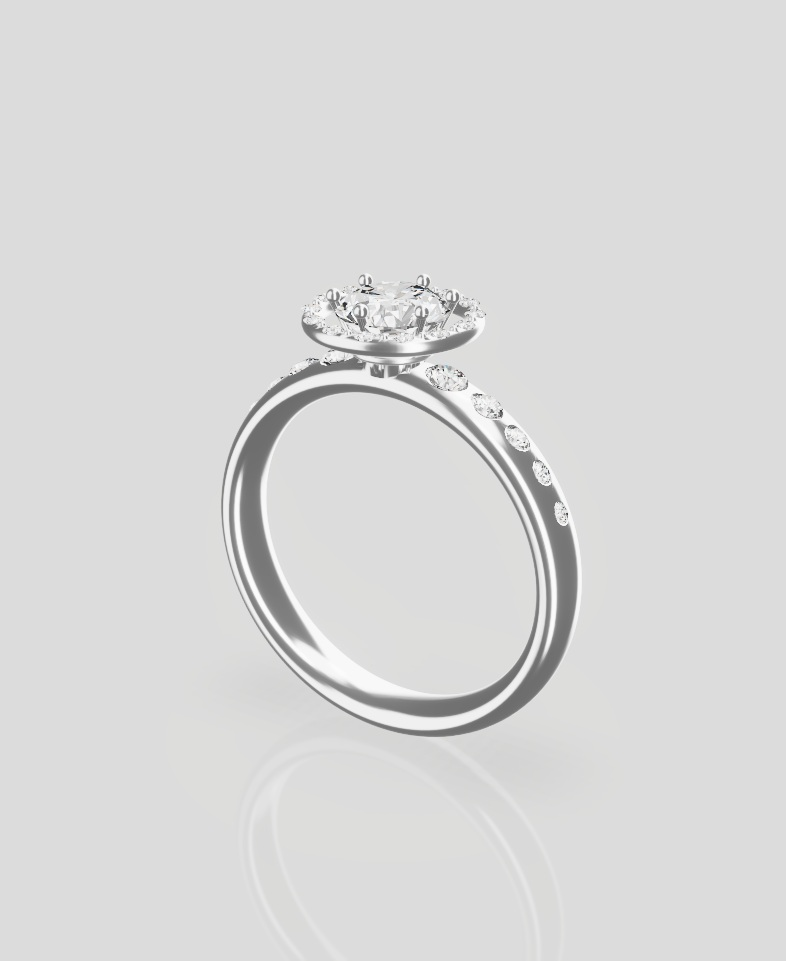
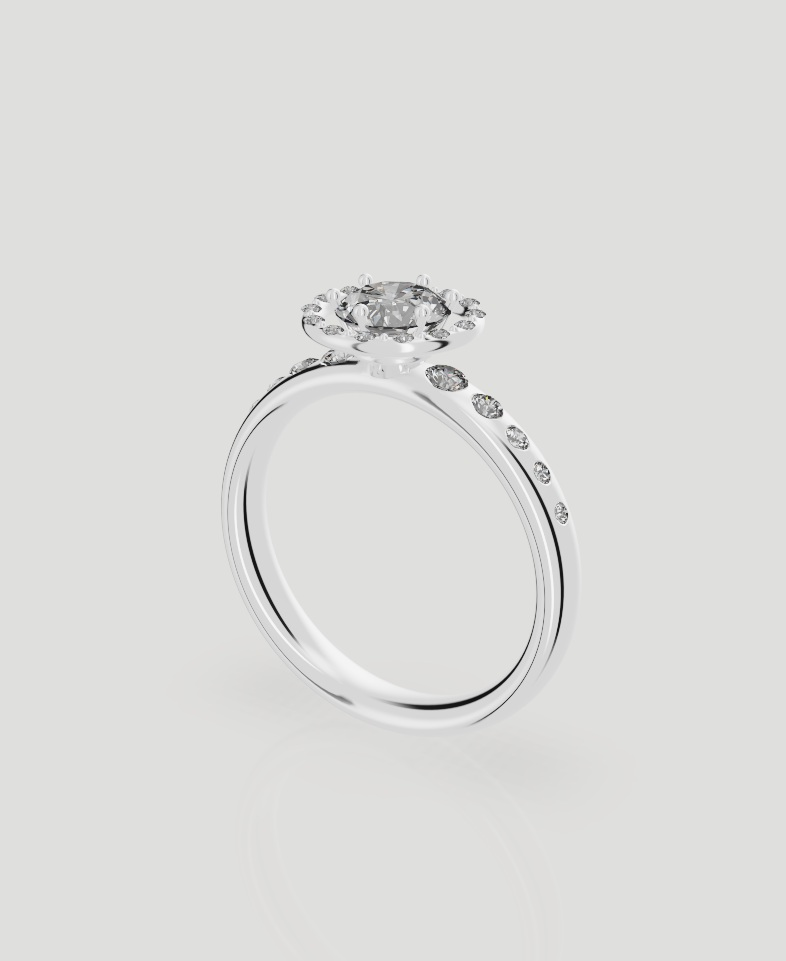
Improve jewelry rendering and add CI

Changed region(s): [[0.2748, 0.281, 0.7328, 0.7804]]

diff --git a/src/viewer/studioLighting.ts b/src/viewer/studioLighting.ts
@@ -1,23 +1,25 @@
 import {DataTexture,DataUtils,EquirectangularReflectionMapping,HalfFloatType,
   LinearFilter,LinearMipmapLinearFilter,LinearSRGBColorSpace,RGBAFormat} from 'three';
 
-type Softbox={azimuth:number;elevation:number;width:number;height:number;power:number};
+type Softbox={azimuth:number;elevation:number;width:number;height:number;power:number;feather?:number};
 const metalBoxes:Softbox[]=[
-  {azimuth:-1.15,elevation:0.3,width:0.48,height:0.95,power:3.4},
-  {azimuth:1.1,elevation:0.2,width:0.18,height:1.05,power:5.4},
-  {azimuth:0,elevation:1.2,width:1.1,height:0.26,power:2.8},
-  {azimuth:2.8,elevation:0.2,width:0.62,height:0.8,power:1.8},
+  {azimuth:-1.15,elevation:0.35,width:0.65,height:1.05,power:1.8,feather:0.9},
+  {azimuth:1.25,elevation:0.25,width:0.12,height:1.15,power:2.4,feather:0.45},
+  {azimuth:0,elevation:1.2,width:1.2,height:0.35,power:0.85,feather:0.85},
+  {azimuth:2.8,elevation:0.2,width:0.6,height:0.9,power:0.7,feather:0.9},
+  // Negative cards remove tent fill, giving polished metal narrow dark reflections.
+  {azimuth:0.42,elevation:0.05,width:0.16,height:1.3,power:-0.8,feather:0.45},
+  {azimuth:-2.1,elevation:0.1,width:0.24,height:1.25,power:-0.8,feather:0.6},
+  {azimuth:2.4,elevation:-0.15,width:0.1,height:1.2,power:-0.8,feather:0.45},
 ];
 const gemBoxes:Softbox[]=[
-  // Broad ceiling/floor returns keep the face-up stone luminous, while gaps between
-  // the narrower side cards still resolve as dark facets rather than a blue tint.
-  {azimuth:0,elevation:1.25,width:Math.PI,height:0.48,power:1.1},
-  {azimuth:0,elevation:-1.15,width:Math.PI,height:0.52,power:0.9},
-  {azimuth:-0.55,elevation:0.8,width:0.64,height:0.5,power:2.8},
-  {azimuth:1.25,elevation:0.25,width:0.25,height:0.9,power:3.1},
-  {azimuth:-2.15,elevation:0.25,width:0.36,height:0.75,power:2.5},
-  {azimuth:2.7,elevation:-0.25,width:0.45,height:0.5,power:1.7},
-  {azimuth:0.25,elevation:-0.7,width:0.3,height:0.22,power:1.6},
+  {azimuth:0,elevation:1.25,width:Math.PI,height:0.5,power:0.55,feather:0.5},
+  {azimuth:0,elevation:-1.15,width:Math.PI,height:0.55,power:0.28,feather:0.65},
+  {azimuth:-0.55,elevation:0.8,width:0.4,height:0.42,power:1.8,feather:0.55},
+  {azimuth:1.25,elevation:0.25,width:0.12,height:0.85,power:2.6,feather:0.4},
+  {azimuth:-2.15,elevation:0.25,width:0.28,height:0.7,power:1.6,feather:0.6},
+  {azimuth:2.7,elevation:-0.25,width:0.4,height:0.45,power:1.1,feather:0.6},
+  {azimuth:0.25,elevation:-0.7,width:0.17,height:0.16,power:2.2,feather:0.4},
 ];
 const smooth=(inner:number,outer:number,value:number)=>{
   const t=Math.max(0,Math.min(1,(value-inner)/(outer-inner)));
@@ -31,11 +33,12 @@ function radianceTexture(width:number,height:number,boxes:Softbox[],base:number)
     let value=base+0.015*Math.max(0,Math.sin(elevation));
     for(const box of boxes){
       const delta=Math.abs(Math.atan2(Math.sin(azimuth-box.azimuth),Math.cos(azimuth-box.azimuth)));
-      const horizontal=1-smooth(box.width*0.85,box.width,delta);
-      const vertical=1-smooth(box.height*0.85,box.height,Math.abs(elevation-box.elevation));
+      const edge=1-(box.feather??0.15);
+      const horizontal=1-smooth(box.width*edge,box.width,delta);
+      const vertical=1-smooth(box.height*edge,box.height,Math.abs(elevation-box.elevation));
       value+=box.power*horizontal*vertical;
     }
-    const i=(y*width+x)*4,encoded=DataUtils.toHalfFloat(value);
+    const i=(y*width+x)*4,encoded=DataUtils.toHalfFloat(Math.max(0.005,value));
     data[i]=data[i+1]=data[i+2]=encoded;data[i+3]=DataUtils.toHalfFloat(1);
   }
   const texture=new DataTexture(data,width,height,RGBAFormat,HalfFloatType);
@@ -50,8 +53,8 @@ function radianceTexture(width:number,height:number,boxes:Softbox[],base:number)
 export function createStudioLighting(width=512,height=256){
   if(!Number.isInteger(width)||!Number.isInteger(height)||width<16||height<8||width>1024||height>512)
     throw new RangeError('Studio dimensions must be integer texel sizes within 16×8–1024×512');
-  const metal=radianceTexture(width,height,metalBoxes,0.15);
-  const gem=radianceTexture(width,height,gemBoxes,0.13);
+  const metal=radianceTexture(width,height,metalBoxes,0.82);
+  const gem=radianceTexture(width,height,gemBoxes,0.2);
   metal.name='Original neutral metal softboxes';gem.name='Original neutral gemstone softboxes';
   let disposed=false;
   return {metal,gem,dispose(){if(!disposed){disposed=true;metal.dispose();gem.dispose();}}};

diff --git a/src/viewer/studioPresets.ts b/src/viewer/studioPresets.ts
@@ -3,7 +3,7 @@ export type StudioPreset={id:StudioPresetId;name:string;description:string;backg
   exposure:number;metalIntensity:number;gemIntensity:number;roughness:number;floorReflection:number;occlusion:number;dispersion:number};
 export const STUDIO_PRESETS:Record<StudioPresetId,StudioPreset>={
   catalog:{id:'catalog',name:'柔光商品棚',description:'柔和白底，清楚呈现戒托与切面。',background:'#f4f3ef',rotation:0.55,
-    exposure:1,metalIntensity:1.05,gemIntensity:1.1,roughness:0.16,floorReflection:0.09,occlusion:0.65,dispersion:0.004},
+    exposure:1,metalIntensity:1,gemIntensity:0.95,roughness:0.065,floorReflection:0.06,occlusion:0.65,dispersion:0.003},
   contrast:{id:'contrast',name:'切面特写',description:'更明确的明暗对比与细微火彩。',background:'#e6e5e2',rotation:-0.45,
-    exposure:0.95,metalIntensity:0.95,gemIntensity:1.05,roughness:0.115,floorReflection:0.22,occlusion:0.72,dispersion:0.004},
+    exposure:0.95,metalIntensity:0.9,gemIntensity:0.9,roughness:0.055,floorReflection:0.14,occlusion:0.72,dispersion:0.003},
 };

diff --git a/src/viewer/planarFloor.test.ts b/src/viewer/planarFloor.test.ts
@@ -1,6 +1,14 @@
-import {ShaderMaterial} from 'three';
+import {Color,ShaderMaterial} from 'three';
 import {expect,it} from 'vitest';
 import {createPlanarFloor} from './planarFloor';
+
+it('uses the selected studio floor color and reflection strength',()=>{
+  const floor=createPlanarFloor(256,-1.295,'#f4f3ef',0.06);
+  const material=floor.reflector.material as ShaderMaterial;
+  expect(material.uniforms.color.value.equals(new Color('#f4f3ef'))).toBe(true);
+  expect(material.uniforms.strength.value).toBe(0.06);
+  floor.dispose();
+});
 
 it('owns the planar reflection target and surface without leaking on quality changes',()=>{
   const floor=createPlanarFloor(512,-1.295),target=floor.reflector.getRenderTarget();

diff --git a/src/viewer/planarFloor.ts b/src/viewer/planarFloor.ts
@@ -4,7 +4,7 @@ import {Reflector} from 'three/addons/objects/Reflector.js';
 export function createPlanarFloor(resolution:number,groundY:number,color='#ececeb',strength=0.38){
   const geometry=new PlaneGeometry(200,200);
   const reflector=new Reflector(geometry,{
-    textureWidth:resolution,textureHeight:resolution,multisample:0,clipBias:0.0003,color:'#ececeb',
+    textureWidth:resolution,textureHeight:resolution,multisample:0,clipBias:0.0003,color,
     shader:{name:'JewelryPlanarFloor',uniforms:{
       color:{value:new Color(color)},strength:{value:strength},tDiffuse:{value:null},textureMatrix:{value:new Matrix4()},
       texel:{value:new Vector2(1/resolution,1/resolution)},

diff --git a/src/viewer/gemOptics.ts b/src/viewer/gemOptics.ts
@@ -70,7 +70,10 @@ vec3 outsideRadiance(vec3 origin,vec3 direction,vec3 smoothRay){
       return radiance*f;
     }
   }
-  return environment(direction,smoothRay);
+  // shortcut: a soft camera/observer cone, replace with an explicit capture rig for measured assets.
+  float facingObserver=dot(direction,normalize(cameraPosition-origin));
+  float obstruction=smoothstep(0.9563,0.9848,facingObserver);
+  return environment(direction,smoothRay)*mix(1.0,0.12,obstruction);
 }
 vec3 traceRadiance(vec3 incoming,vec3 normal,float eta,vec3 smoothRay){
   vec3 direction=refract(incoming,normal,1.0/eta);

diff --git a/docs/commercial-render-review.md b/docs/commercial-render-review.md
@@ -1,0 +1,37 @@
+# 商业展示对照记录 · 2026-10-29
+
+本轮针对“戒臂像塑料、宝石内部不够接近 Blue Nile”的反馈，检查了实际页面、现有模型和材质，再调整同一个模型的灯光。结论是金属反射有所改善，但还不能把当前样板当成实际商品的可信呈现。
+
+## 对照依据
+
+- [Blue Nile 对照款](https://www.bluenile.com/engagement-rings/design-your-own-ring/diamond-whisper-side-stone-engagement-ring-in-14k-white-gold-by-james-allen-item-315462) 实际包含可拖动的 Three.js 戒指视图，并配合静态商品与佩戴图片。不能把它概括为“纯摄影、几乎没有交互”。静态图的制作来源没有核实，不能凭图片判断全部实拍。
+- 本地样板的整体修改前后使用相同模型、白金色、柔光商品棚和同一整体相机；实际 CSS 视口为 984×692。两张截图保存在工作区 `../research/2026-10-29-commercial-render/`。
+- Blue Nile 与样板的戒托款式、主石比例和画面大小不同。此次对照只能支持反射、结构可读性和显示方式的判断，不能作为同一 SKU 的精度或优劣测试。
+- “我们的火彩、交互压倒性更好”没有对照实验支持。互动能力存在，不等于画面更真实，也不等于用户更信任。
+
+## 已修改
+
+| 观察到的问题 | 对应改动 | 当前范围 |
+| --- | --- | --- |
+| 戒臂大面积暗灰，高光宽且发糊 | 提高棚内基础反射，增加窄黑卡和渐变柔光；粗糙度从 0.16 / 0.115 降到 0.065 / 0.055 | 改善抛光金属的反射条带，没有改变几何或模拟真实镀层 |
+| 主石亮白碎片偏多，内部层次难辨 | 收窄并降低宝石环境亮区；降低环境强度与色散 | 保留真实切面追踪，没有绘制假的八心八箭、裂纹或净度特征 |
+| 观察方向缺少相机/观察者遮挡 | 出射光线接近观察方向时加入平滑的遮光锥 | 约 10–17° 的美术近似，尚非实测摄影装置；镜面视图使用其自身相机 |
+| 地面预设颜色未生效 | 修正 Reflector 构造参数覆盖传入颜色的问题，并降低倒影强度 | 新回归测试先复现失败，修复后通过 |
+
+钻石暗区可以来自观察者遮住环境光，不必把它解释成杂质；参见 [GIA 对 obscuration 的说明](https://www.gia.edu/gia-news-research/transformation-diamond-cut-quality-grading)。当前遮光锥只是这一现象的近似，不能代表切工评级。
+
+## 仍有明显差距
+
+**模型。** 当前戒托是开源展示资产，爪头偏圆、主镶座与戒臂连接细节不足，不能代表公司的生产款。主石来自用户文件，但原 3DM 没有物理单位。继续调整曝光不能补出正确倒角、爪根、镶口和实际比例。
+
+**光学。** 本轮细节图中主石中央仍有较多灰色区域。现有计算是有限次数的 RGB 光线追踪，出射命中金属后使用近似反射；金属外观和宝石使用各自的环境图，未形成一致的全场景光传输。没有宝石之间的折射、完整光谱、实测灯具或真实焦散。增加追踪次数能改善部分路径截断，不能自动修正模型和灯光。
+
+**实物对应。** 当前能说明选择如何改变样板外观，不能说明某颗库存钻石的颜色、净度、切工和瑕疵。商品材质、尺寸、证书和库存石身份必须来自真实商品数据。生成的四视角 JPEG 仍是同一个实时渲染器的输出，不能当实拍证据。
+
+## 下一件应当交付的素材
+
+选择公司计划销售的一枚真实戒指，先把这一枚验收通过。建模同事交付毫米单位的原 CAD、分件 Web GLB、同款装配尺寸和一致视角的参照图；明确戒臂厚宽、倒角、爪位、主石长宽高、腰围与镶口位置。金属保留正确圆滑法线，宝石保留切面硬边；清理重复面、穿插与悬浮部件。
+
+用同款、同视角、相近灯光检查外轮廓、结构连接、金属反射及宝石内部。由建模/商品同事确认生产对应关系，再定为标准资产。按这个标准扩展款式，避免每换一个 GLB 就临时调一套 shader 掩盖素材问题。完整文件约定见 [素材接入说明](atelier-assets.md)。
+
+离线渲染可以作为稳定的商品主图，实时 3D 服务旋转和配置；实际钻石详情和佩戴比例需要对应实物的资料。这三类图应保留来源标识，不混淆预览与实物。

diff --git a/README.md b/README.md
@@ -15,6 +15,8 @@ npm run dev -- --port 5179
 
 ## 当前 P0–P4 样板（2026-10-28）
 
+2026-10-29 进一步调整金属反射棚、抛光粗糙度、宝石明暗与观察者遮挡，并修复地面颜色未随预设生效的问题。实际对照、剩余差距与同款商品验收要求见 [商业展示对照记录](docs/commercial-render-review.md)。此调整不代表与 Blue Nile 达到视觉或实物一致性。
+
 默认成品戒指使用 Diamond Shader Lab 的 MIT 配钻戒托，替换为你提供的圆形主石；另有 19 款独立宝石，以及保留的参数化结构 DIY。宝石库按选择加载一款 GLB，19 款合计约 160 KiB，戒托约 561 KiB。加载缓存保留原模型，展示时克隆几何；切换时释放本实例的几何、材质与光学纹理。
 
 当前链路：配置 → 成品戒指 / 单件宝石 / DIY → 原创双环境摄影棚 → 金属局部遮蔽 + BVH 宝石光学 + 地面倒影 → 静止 32 样本累积 → 克制 Bloom → ACES / sRGB。两套光线预设统一管理环境旋转、亮度、曝光、金属粗糙度和地面反射。
@@ -47,13 +49,13 @@ npm run dev -- --port 5179
 - 选择仅保存至当前浏览器；不是云端设计单。
 - 主石由 22 三角面的旧样模升级为 MIT 明亮式切工模型，252 三角面。三角面数量不等于宝石学切面数量。
 
-## 模型同事交付接口
+## 先前六爪版本的模型接口（历史）
 
 参考模式已接入真实 GLB；DIY 模式仍为程序化几何，不是制造 CAD。生产资产应约定毫米单位、统一原点/轴向、戒臂与镶座分组、精细倒角、独立金属/宝石材质槽、闭合宝石表面与切面硬法线。当前适配器按已检查的 `Brillant_1` 节点识别主石，并保留祖先变换；不能直接视为任意 GLB 自动识别器。
 
 运行 `node scripts/pack-brilliant.mjs` 可从已归档的外部 glTF 重建当前 GLB 与哈希清单。旧 `prepare-gem.mjs` 只用于原型 CC0 石头，不应用它覆盖当前主石。
 
-## 已知边界
+## 先前六爪版本的边界（历史）
 
 不是 iJewel / Helzberg 的等效商用渲染器：没有离线路径追踪、真实焦散、镜头效果或全光谱色散。折射出射主要采样环境，不追踪镶爪等场景对象；未加入屏幕空间 SSR/SSAO、运动重投影 TAA，也没有复制复杂编织戒臂。参考模型/EXR 的商业授权仍未确认，不应直接发布成商用素材。高质量模式增加 GPU 成本，窄屏检查不等于移动真机性能测试。构建仍可能有主包体积警告。
 

diff --git a/TEST-REPORT.md b/TEST-REPORT.md
@@ -1,5 +1,15 @@
 # Verification history
 
+## Commercial display correction — 2026-10-29
+
+- Full suite: 67 tests across 20 files passed. TypeScript check and production build passed. Current JS chunks: entry 615.71 kB / 176.87 kB gzip; lazy viewer 850.41 kB / 242.20 kB gzip. The existing >500 kB bundle advisory and upstream Three deprecation warnings remain.
+- Changes: neutral metal tent with dark cards and softer gradients, lower polished-metal roughness, reduced gemstone light/dispersion, a documented approximate observer cone, lower floor reflection, and the floor preset-color bug fix. Existing radiance tests validate finite nonnegative achromatic textures, contrast and ownership. The new floor-color regression failed before the fix and passed afterward.
+- Actual browser comparison: the same local ring, white metal, catalog preset and overall camera at CSS 984×692 before/after. Blue Nile's live interactive ring was inspected separately; it is a different SKU, camera and viewport, so no equal-product or photorealistic-parity conclusion is drawn.
+- Checked round loose stone face-up, ring detail, both lighting presets and all three metal appearances. Browser error log was empty after these interactions. Final narrow CSS viewport was 300×649, scroll width 300; idle canvas reached 32 refinement samples.
+- Four actual JPEG exports completed. Updated `public/media/sample/{overall,front,side,stone}.jpg` are 786×961 white-metal/catalog images from the new renderer. After a reload, image mode showed all four thumbnails and the main image loaded successfully.
+- Before/after and detail screenshots are in workspace `../research/2026-10-29-commercial-render/`. The floor correction changed the surrounding background along with the metal/gem treatment; screenshots are evidence, not pixel regression goldens or a controlled perceptual study.
+- Real-device GPU performance, full-scene optical accuracy, long-run memory, physical SKU correspondence and final commercial acceptance were not verified. This iteration does not supersede those limitations. See `docs/commercial-render-review.md` for remaining geometry and optical gaps.
+
 ## Reference GLB, mirror floor and open optics — 2026-10-25 / handoff 2026-10-26
 
 - Current suite: 55 tests across 16 files; full suite passed. TypeScript and Vite production build passed. Bundle advisory remains: 1,424.73 kB raw / 403.12 kB gzip, above 500 kB advisory. Node test imports emit upstream THREE_CJS_DEPRECATED warnings; browser emits the pre-existing Three.Clock deprecation warning.

diff --git a/PRODUCT.md b/PRODUCT.md
@@ -12,19 +12,19 @@ Confirmed: Vite, React, TypeScript, Three.js, React Three Fiber and drei; no pro
 
 ## Users
 
-A full-stack developer evaluating an open-source jewelry configurator with prospective product and modeling colleagues.
+A full-stack developer and modeling/product colleagues preparing a commercial DIY jewelry configurator.
 
 ## Product Purpose
 
-Demonstrate a real interactive ring, with procedural shanks and an externally sourced, licensed gemstone GLB. Evaluate rendering and interaction before connecting commercial systems.
+Evaluate interactive jewelry against commercial display requirements: readable metal and stone detail, accurate product geometry and traceable assets. The current app is a rendering sample; production SKU correspondence and commerce systems remain future work.
 
 ## Capabilities and Constraints
 
-Two shank styles, three metal appearances, three visual gemstone sizes, camera controls, local saving and quality modes. No price, payment, inventory, production CAD or AR. Small mobile viewport verification is not physical device testing. External asset licensing and attribution are required.
+An MIT sample ring with the user's round gemstone, a library of 19 supplied gemstone shapes, two procedural shank styles, three metal appearances, two lighting presets, camera controls, local saving, quality modes and four-view image export. No price, payment, inventory or AR. Source gemstones have no declared physical units; the sample ring is not a production SKU. Small mobile viewport verification is not physical device testing. External asset licensing and attribution are required.
 
 ## Evidence on Hand
 
-Approved design and implementation plan in ../docs/superpowers/. Real gemstone file still to be acquired and checked; no fabricated product or performance claims.
+Approved implementation plan in ../docs/superpowers/. The supplied 3DM gemstones have been converted and checked; provenance is recorded in assets/atelier-gems-provenance.json. Blue Nile live-viewer comparison and commercial limitations are documented in docs/commercial-render-review.md. No fabricated product, visual-parity or performance claims.
 
 ## Accessibility & Inclusion
 
